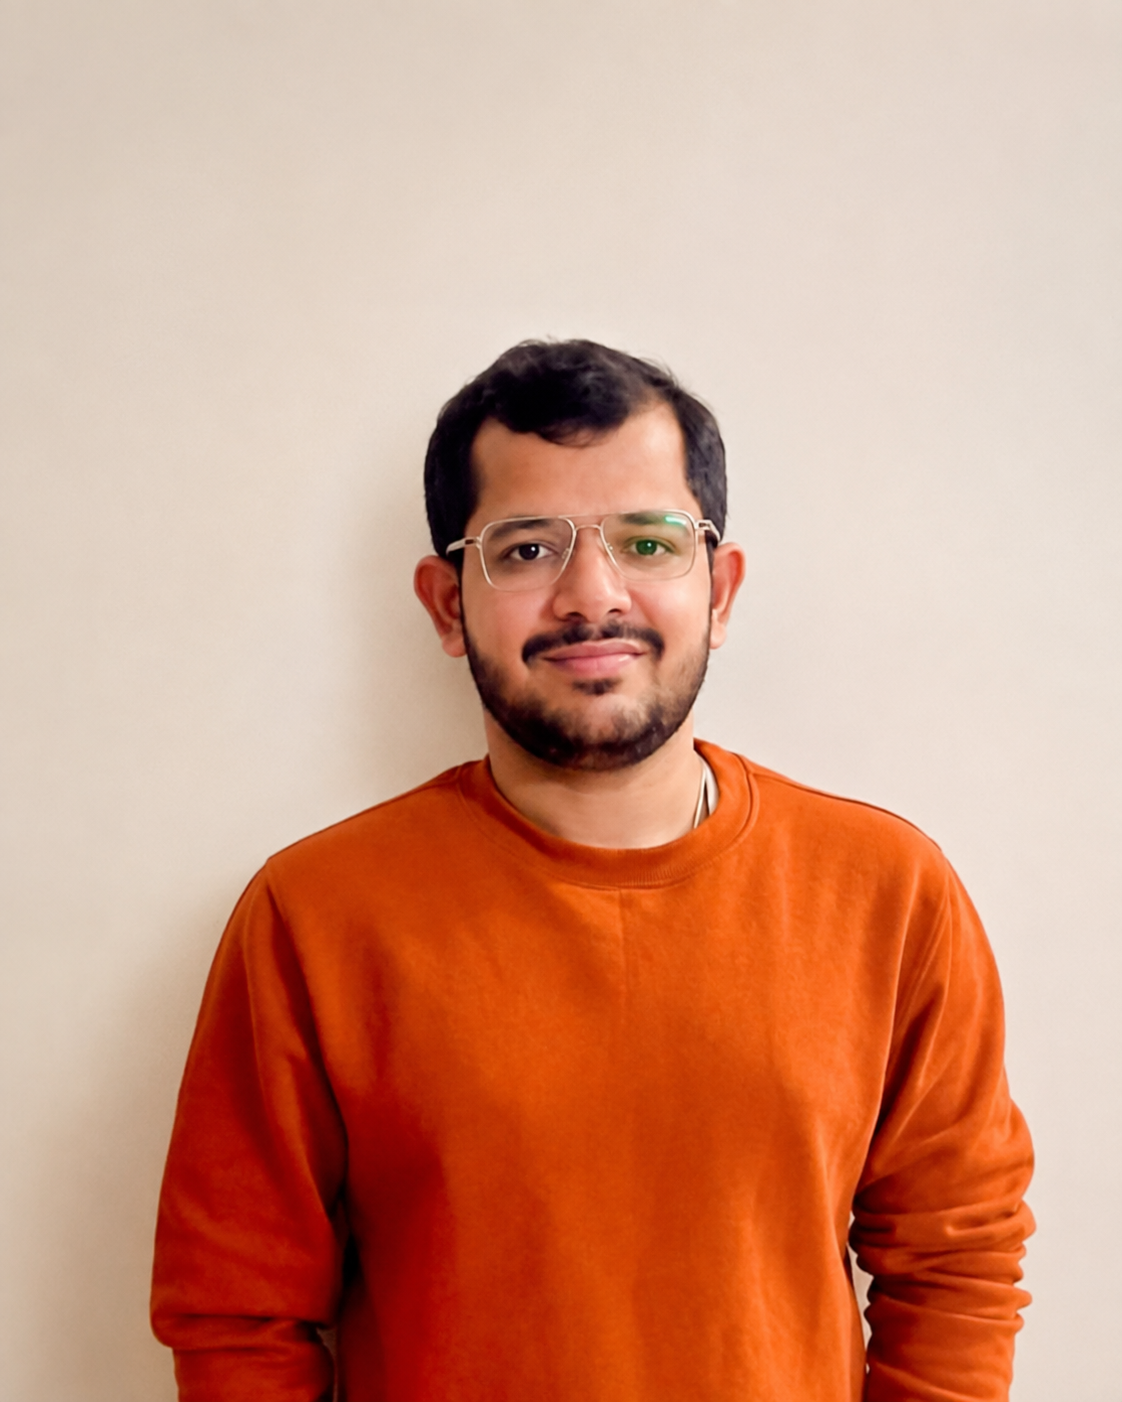
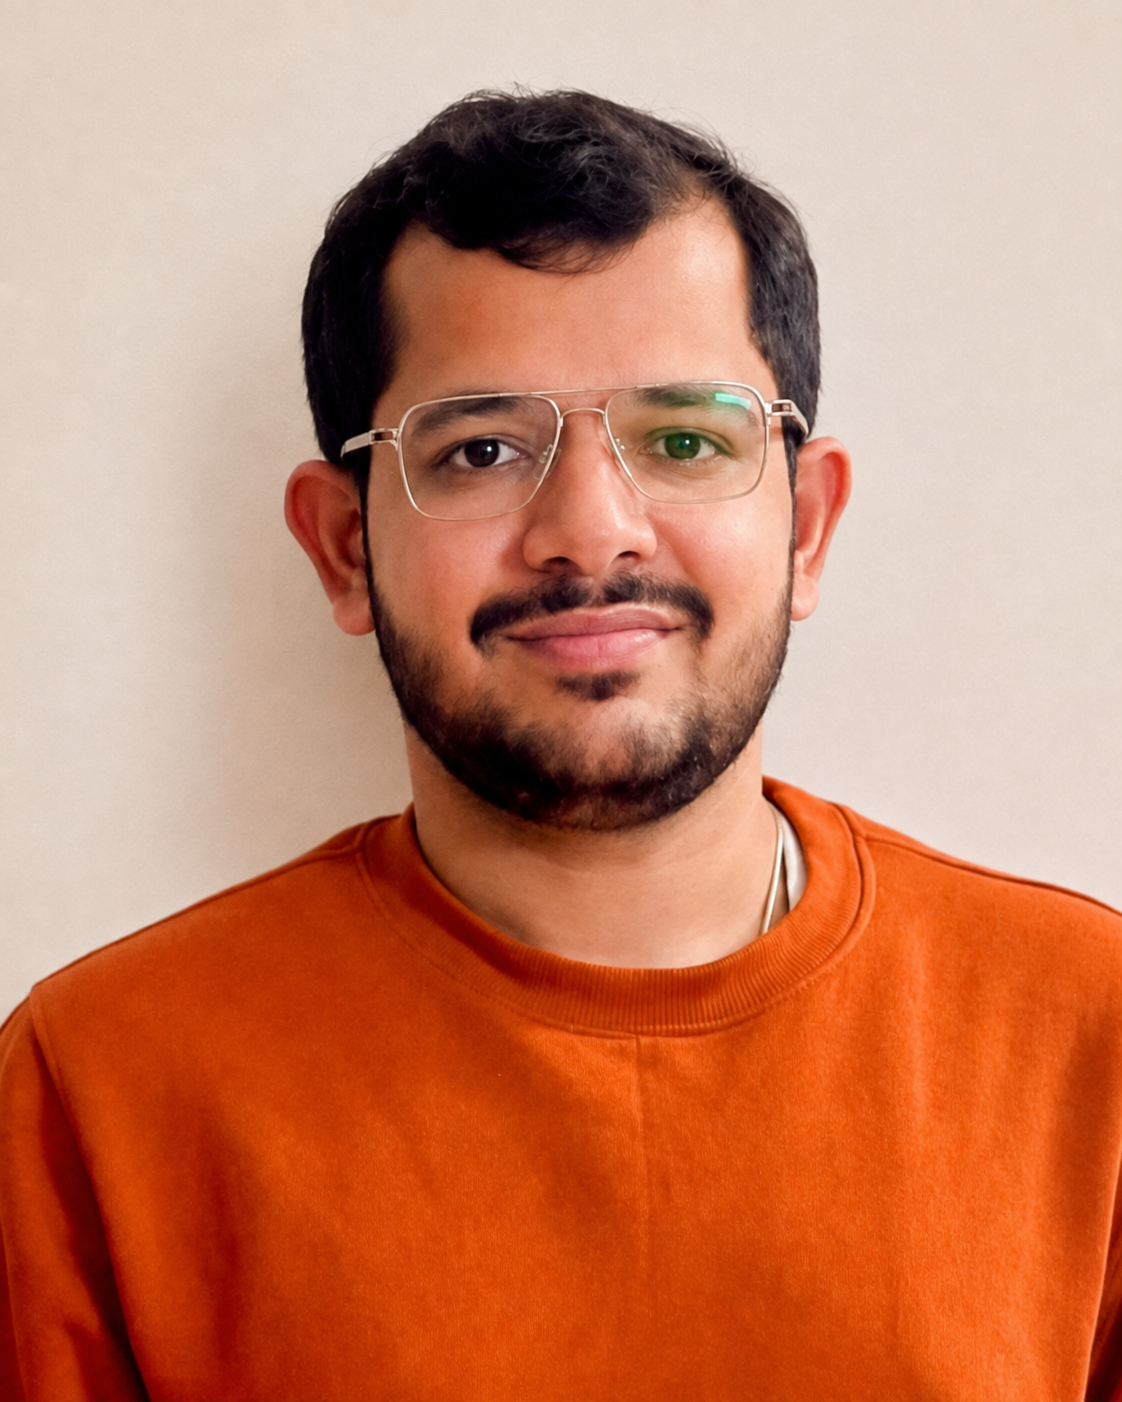
Tighten and reduce portrait size

diff --git a/styles.css b/styles.css
@@ -15,7 +15,7 @@ nav a:hover,.nav-contact:hover { color:var(--accent); }
 .hero { padding:76px 0 62px; }
 .availability { margin-bottom:55px; color:#238636; font-size:13px; }
 .availability span { display:inline-block; width:8px; height:8px; margin-right:8px; border-radius:50%; background:#35a853; }
-.hero-layout { display:grid; grid-template-columns:minmax(0,1fr) 250px; align-items:end; gap:42px; }
+.hero-layout { display:grid; grid-template-columns:minmax(0,1fr) 190px; align-items:end; gap:34px; }
 .portrait { width:100%; margin:0; overflow:hidden; border-radius:5px; background:var(--surface); }
 .portrait img { display:block; width:100%; height:auto; }
 .eyebrow,.section-label { color:var(--accent); font-size:12px; font-weight:700; letter-spacing:.07em; text-transform:uppercase; }
@@ -74,4 +74,4 @@ h1 em { font-style:normal; color:var(--accent); }
 .email-link { color:var(--accent); font-weight:600; }
 footer { display:flex; justify-content:space-between; gap:14px; padding:24px 0 34px; color:var(--muted); border-top:1px solid var(--line); font-size:13px; }
 footer a { color:var(--accent); }
-@media (max-width:700px) { .shell { width:min(100% - 32px,1060px); } .nav { height:64px; } nav { display:none; } .hero { padding:55px 0 48px; } .availability { margin-bottom:42px; } .hero-layout,.hero-bottom,.statement,.expertise { display:block; } .portrait { width:min(220px,60vw); margin:28px auto 0; } .intro { font-size:16px; margin-bottom:22px; } .signal-row { grid-template-columns:repeat(2,1fr); margin-top:45px; } .statement,.work,.projects,.websites,.expertise,.closing { padding:52px 0; } .statement-copy { margin-top:24px; } .role { grid-template-columns:1fr; gap:16px; } .role-meta { flex-direction:row; justify-content:space-between; } .websites-intro { display:block; } .websites-intro p { margin-bottom:16px; } .project-grid,.website-grid { grid-template-columns:1fr; } .project-card,.project-card.large { min-height:230px; } .expertise .section-label { margin-bottom:22px; } .skills > div { grid-template-columns:1fr; gap:5px; } footer { flex-wrap:wrap; } }
+@media (max-width:700px) { .shell { width:min(100% - 32px,1060px); } .nav { height:64px; } nav { display:none; } .hero { padding:55px 0 48px; } .availability { margin-bottom:42px; } .hero-layout,.hero-bottom,.statement,.expertise { display:block; } .portrait { width:min(170px,52vw); margin:28px auto 0; } .intro { font-size:16px; margin-bottom:22px; } .signal-row { grid-template-columns:repeat(2,1fr); margin-top:45px; } .statement,.work,.projects,.websites,.expertise,.closing { padding:52px 0; } .statement-copy { margin-top:24px; } .role { grid-template-columns:1fr; gap:16px; } .role-meta { flex-direction:row; justify-content:space-between; } .websites-intro { display:block; } .websites-intro p { margin-bottom:16px; } .project-grid,.website-grid { grid-template-columns:1fr; } .project-card,.project-card.large { min-height:230px; } .expertise .section-label { margin-bottom:22px; } .skills > div { grid-template-columns:1fr; gap:5px; } footer { flex-wrap:wrap; } }
